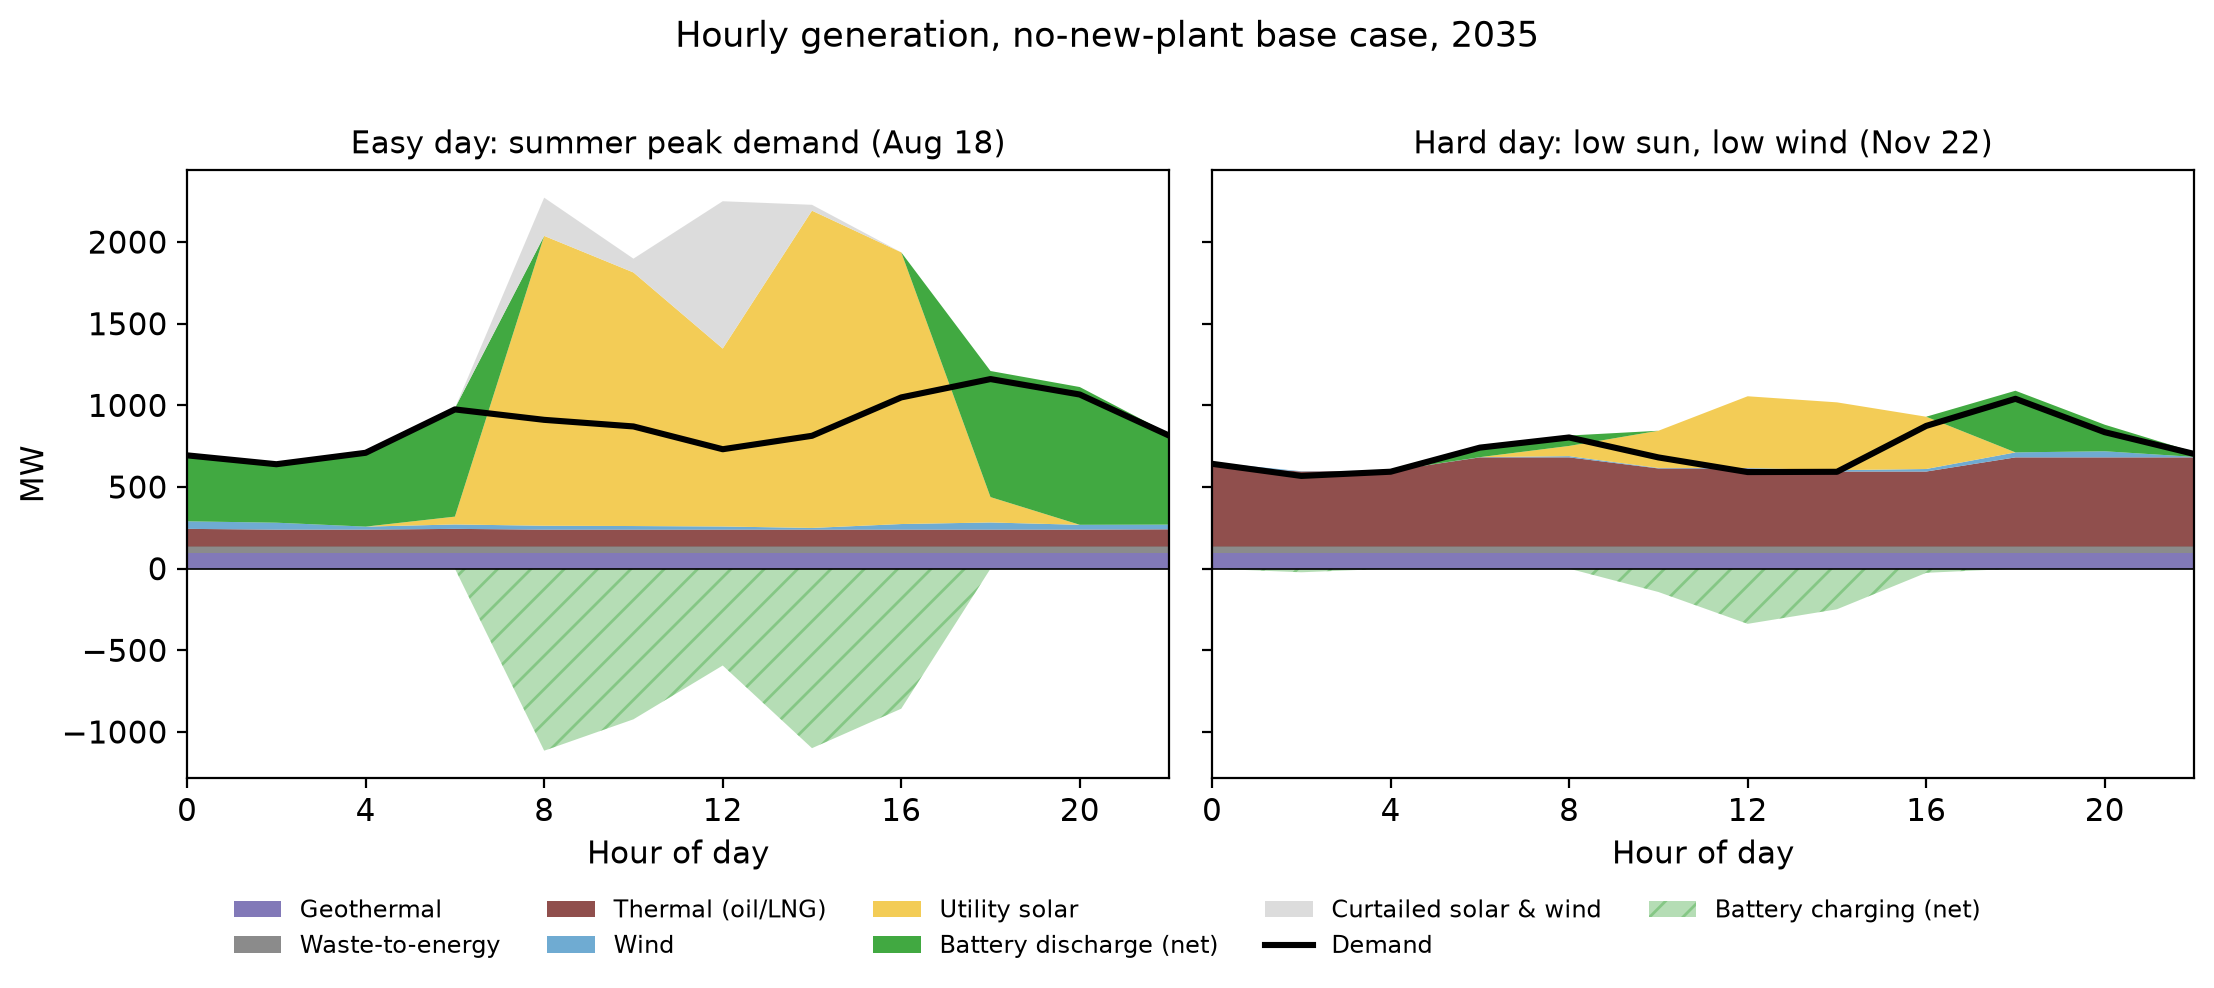
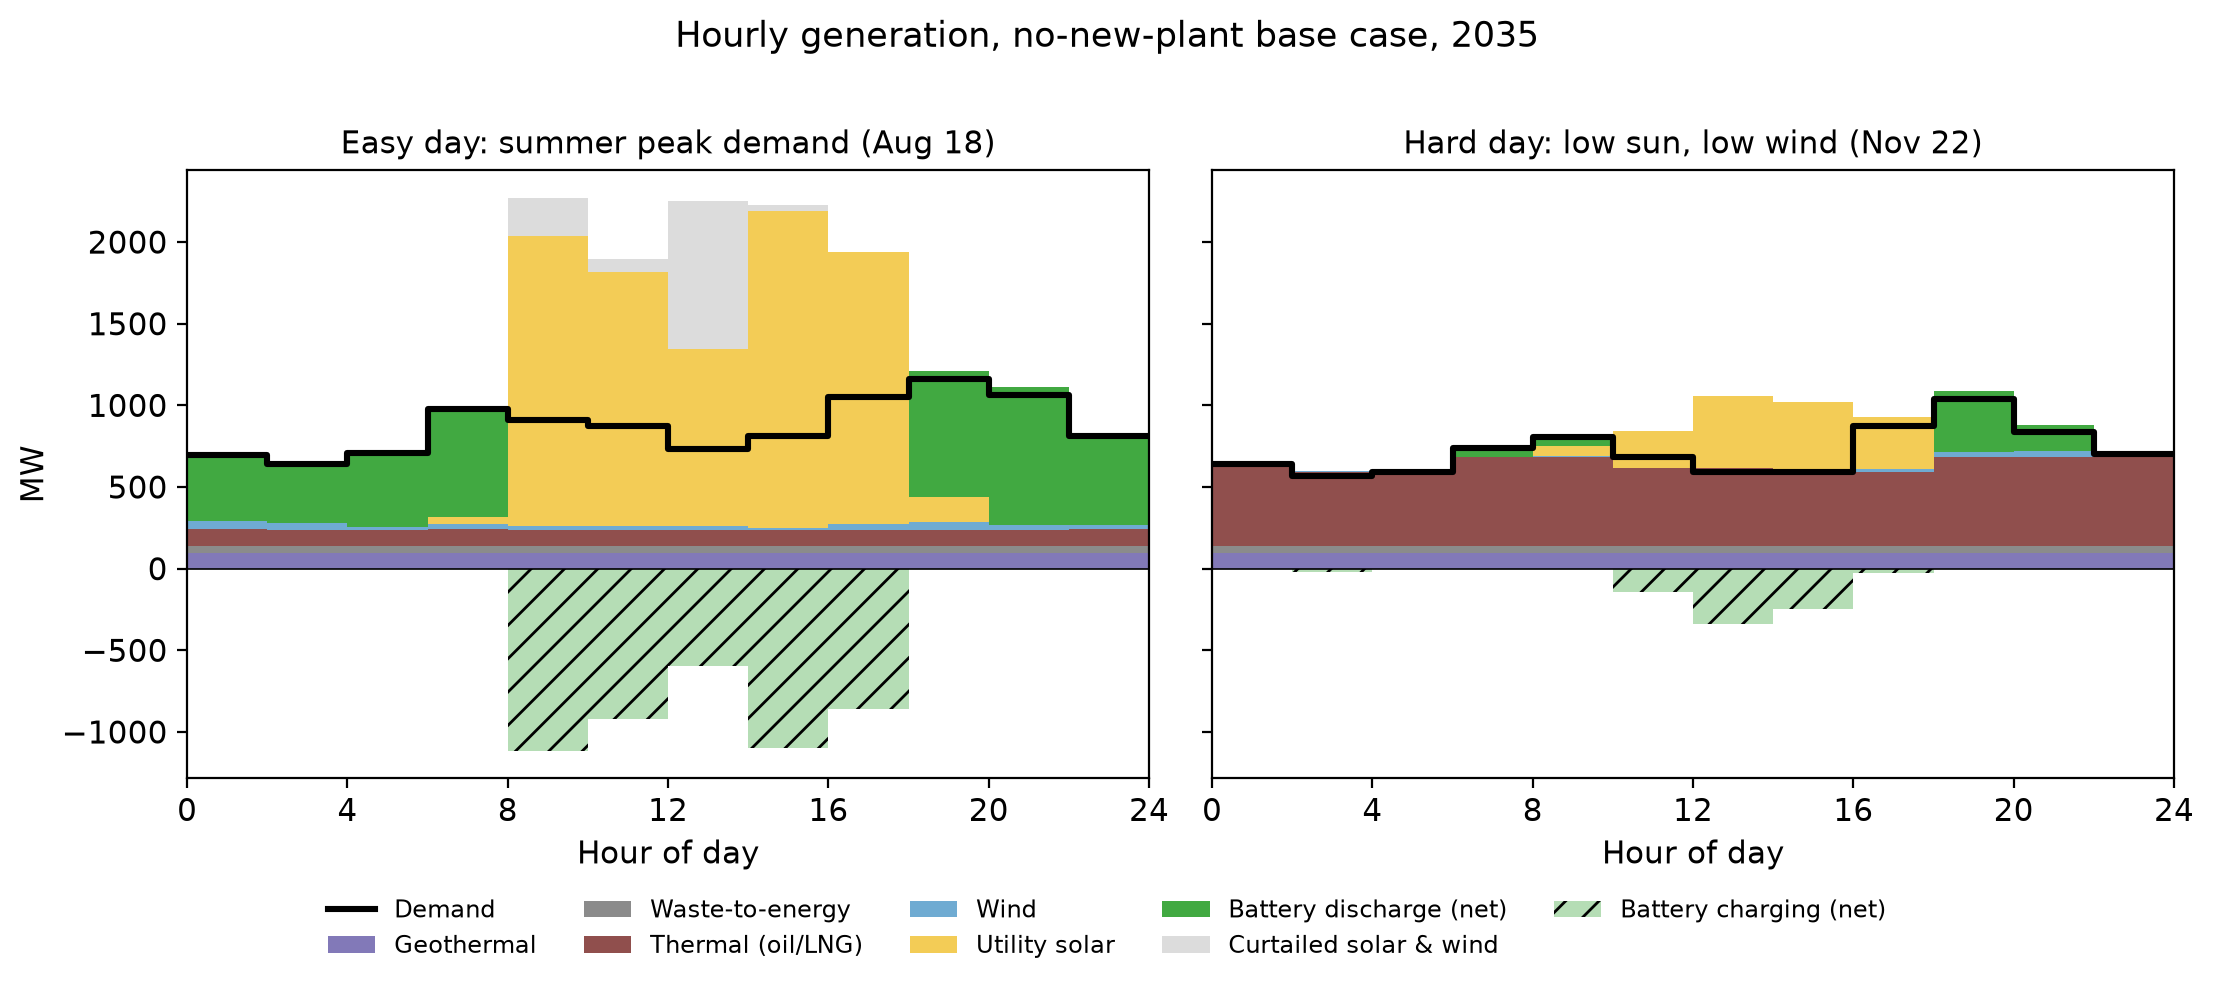
Figure 5.1 rendered as in the explorer (bars per two-hour timepoint, step demand line); removes apparent simultaneous charge/discharge

diff --git a/report/figures/make_report_figures.py b/report/figures/make_report_figures.py
@@ -238,26 +238,34 @@ def fig_reliability():
              ("Rooftop solar", "DIST", "#f7e08a"),
              ("Battery discharge (net)", "Battery", "#2ca02c"),
              ("Curtailed solar & wind", "Curtailed", "#d9d9d9")]
+    # Rendering matches the explorer's hourly tab: stacked BARS per two-hour
+    # model timepoint plus a step demand line. Continuous areas (stackplot)
+    # interpolate between sample points, which smears a charge block into an
+    # adjacent discharge block and reads as simultaneous charge/discharge.
     fig, axes = plt.subplots(1, 2, figsize=(11.2, 4.8), sharey=True)
     for ax, day, title in [(axes[0], EASY, "Easy day: summer peak demand (Aug 18)"),
                            (axes[1], HARD, "Hard day: low sun, low wind (Nov 22)")]:
         ts = sorted(t for t in dem if t.startswith(day))
-        x = [int(t[11:13]) for t in ts]
-        stacks, labels, colors = [], [], []
+        x = [int(t[11:13]) + 1 for t in ts]          # centers of 2-h blocks
+        bottom = [0.0] * len(ts)
         for label, es, c in bands:
             y = ([max(dist[t], 0.0) for t in ts] if es == "DIST"
                  else [max(cen[t].get(es, 0.0), 0.0) for t in ts])
             if sum(y) > 1:
-                stacks.append(y); labels.append(label); colors.append(c)
-        ax.stackplot(x, *stacks, labels=labels, colors=colors, alpha=0.9)
-        ax.plot(x, [dem[t] for t in ts], color="black", lw=2.2, label="Demand")
-        ax.fill_between(x, [-max(charge[t], 0.0) for t in ts], 0,
-                        color="#2ca02c", alpha=0.35, hatch="//", lw=0,
-                        label="Battery charging (net)")
+                ax.bar(x, y, width=2.0, bottom=bottom, color=c, alpha=0.9,
+                       linewidth=0, label=label)
+                bottom = [b + v for b, v in zip(bottom, y)]
+        ax.bar(x, [-max(charge[t], 0.0) for t in ts], width=2.0,
+               color="#2ca02c", alpha=0.35, hatch="//", linewidth=0,
+               label="Battery charging (net)")
+        edges = [int(t[11:13]) for t in ts] + [24]
+        dvals = [dem[t] for t in ts] + [dem[ts[-1]]]
+        ax.step(edges, dvals, where="post", color="black", lw=2.2,
+                label="Demand")
         ax.axhline(0, color="black", lw=0.6)
         ax.set_title(title, fontsize=11)
         ax.set_xlabel("Hour of day")
-        ax.set_xticks(range(0, 24, 4)); ax.set_xlim(0, 22)
+        ax.set_xticks(range(0, 25, 4)); ax.set_xlim(0, 24)
     axes[0].set_ylabel("MW")
     h0, l0 = axes[0].get_legend_handles_labels()
     h1, l1 = axes[1].get_legend_handles_labels()

diff --git a/report/DRAFT_v7_full.md b/report/DRAFT_v7_full.md
@@ -2431,10 +2431,11 @@ case.
 ![Figure 5.1 — hourly dispatch on the easy and hard sample days, 2035](figures/fig_5_1_reliability_days.png)
 
 *Figure 5.1 — Hourly dispatch on the two 2035 sample days, no-new-plant base
-case.* Stacked hourly generation (MW) on the summer peak-demand day
-(August 18) and the low-sun, low-wind day (November 22). The black line is
-demand; the hatched area below zero is net battery charging; the gray band
-is curtailed solar and wind, potential output above what was dispatched.
+case.* Stacked generation (MW) by two-hour model timepoint on the summer
+peak-demand day (August 18) and the low-sun, low-wind day (November 22),
+rendered as in the results explorer. The black step line is demand; the
+hatched bars below zero are net battery charging; the gray band is
+curtailed solar and wind, potential output above what was dispatched.
 Battery flows are shown net: in surplus hours the optimizer may charge and
 discharge simultaneously, a costless way to shed surplus, which the net
 view removes; the round-trip losses of that disposal are counted as
